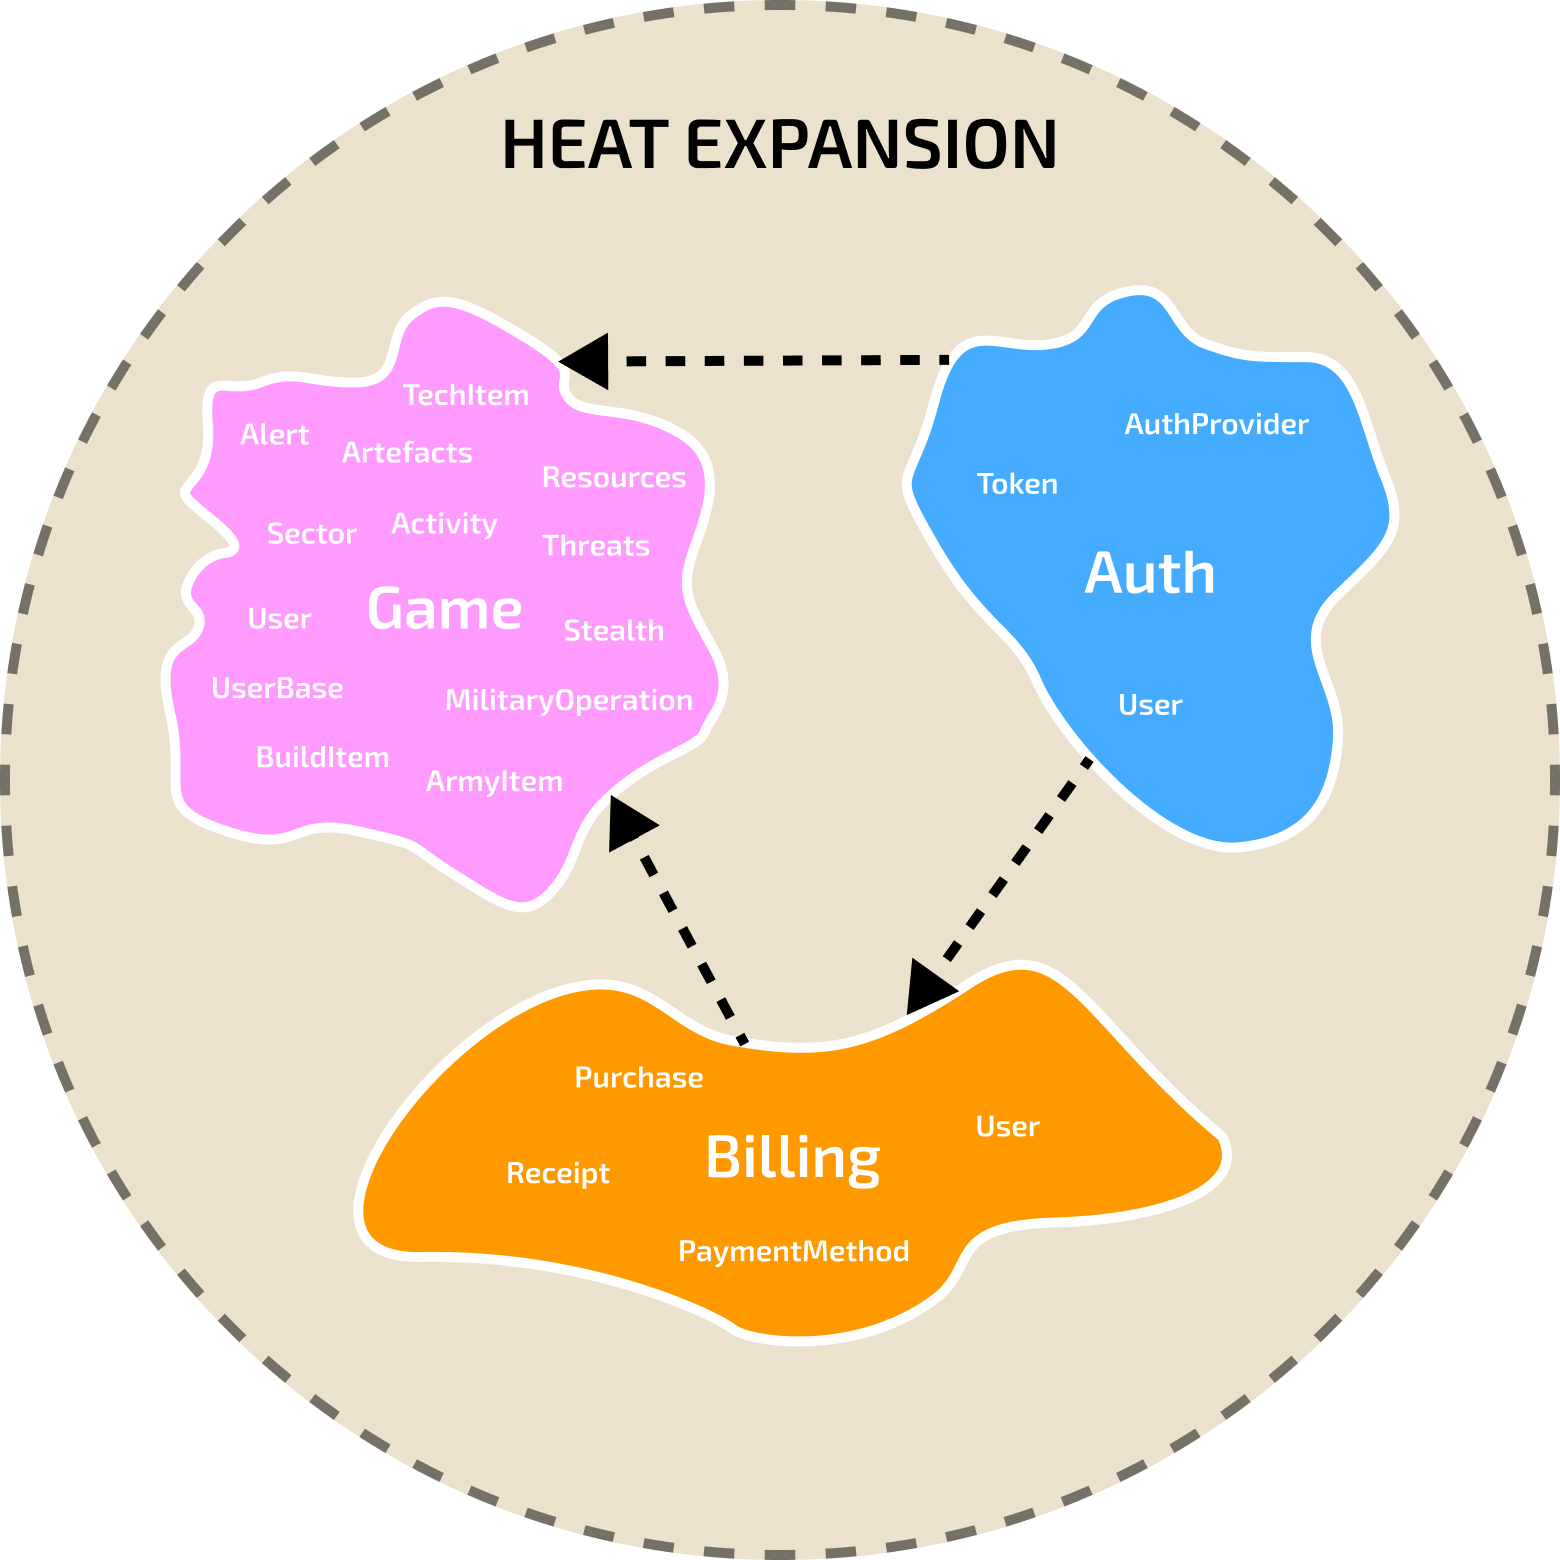
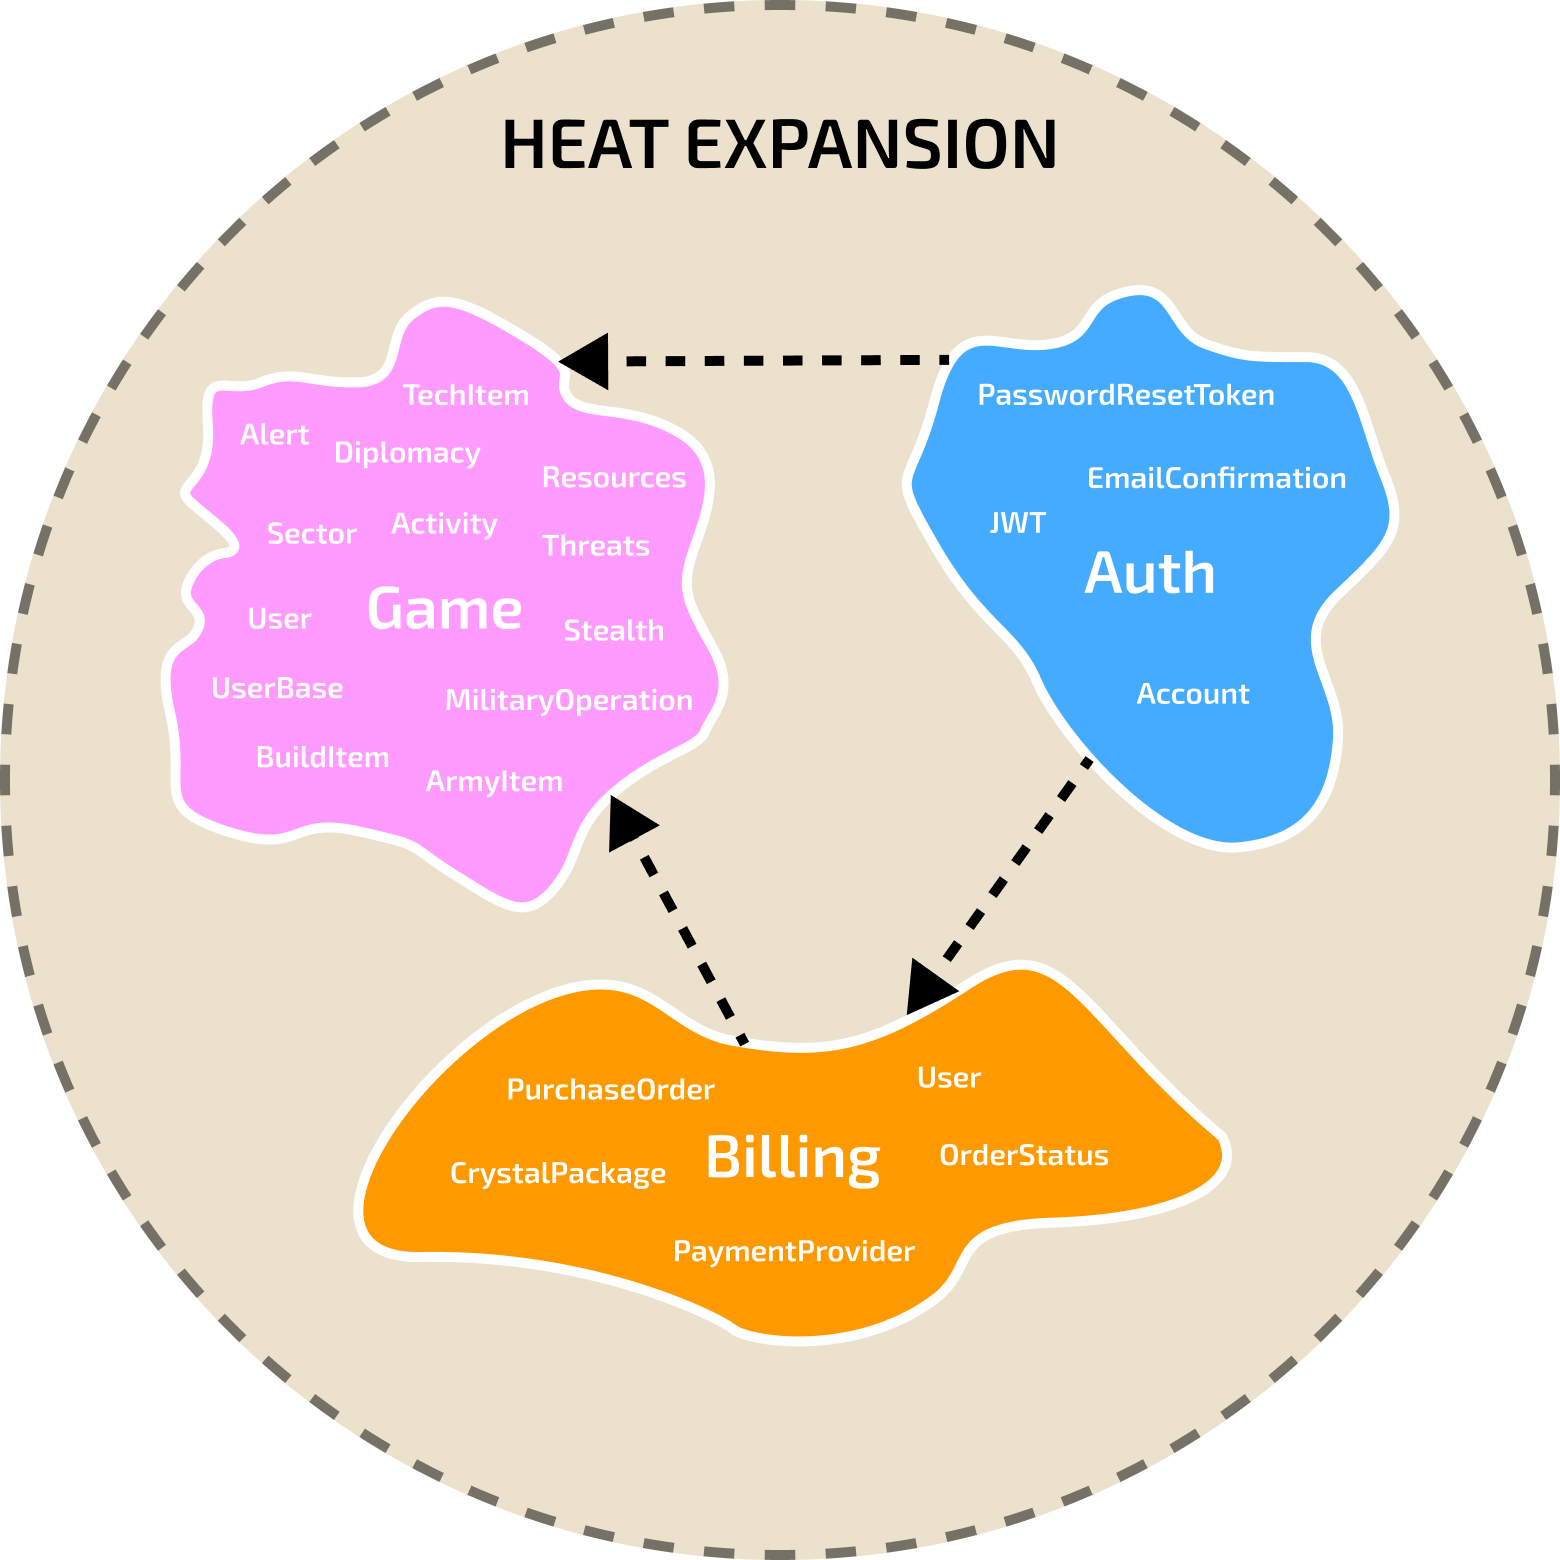
docs: updated readme & bounded contexts image

diff --git a/internal/billing/README.md b/internal/billing/README.md
@@ -8,6 +8,7 @@ This directory contains the **billing** service inside the Heat Expansion modula
 - **Purchase Orders**: The core aggregate `PurchaseOrder` tracks the full lifecycle of a payment — `PENDING` on creation, `PAID` on successful webhook confirmation, `FAILED` on rejection. Each order is tied to a user ID (from JWT), a package, and a YooKassa payment.
 - **YooKassa Integration**: Payments are created via the YooKassa REST API using the order ID as the idempotency key. Confirmation arrives via webhook, which transitions the order to `PAID` or `FAILED`.
 - **Events**: On `PAID`, emits a `CrystalsPurchasedV1` integration event that the Game service consumes to credit crystals to the player's balance.
+- **Users**: A lightweight model holding just an ID and email, where the email is needed to issue payment receipts.
 
 ## Architecture
 
@@ -50,4 +51,4 @@ From repo root:
 
 ## Database Schema
 
-All tables live in the `billing` schema: `billing.crystal_packages`, `billing.purchase_orders`, `billing.domain_events`, `billing.integration_events`.
+All tables live in the `billing` schema: `billing.crystal_packages`, `billing.purchase_orders`, `billing.users`, `billing.domain_events`, `billing.integration_events`.